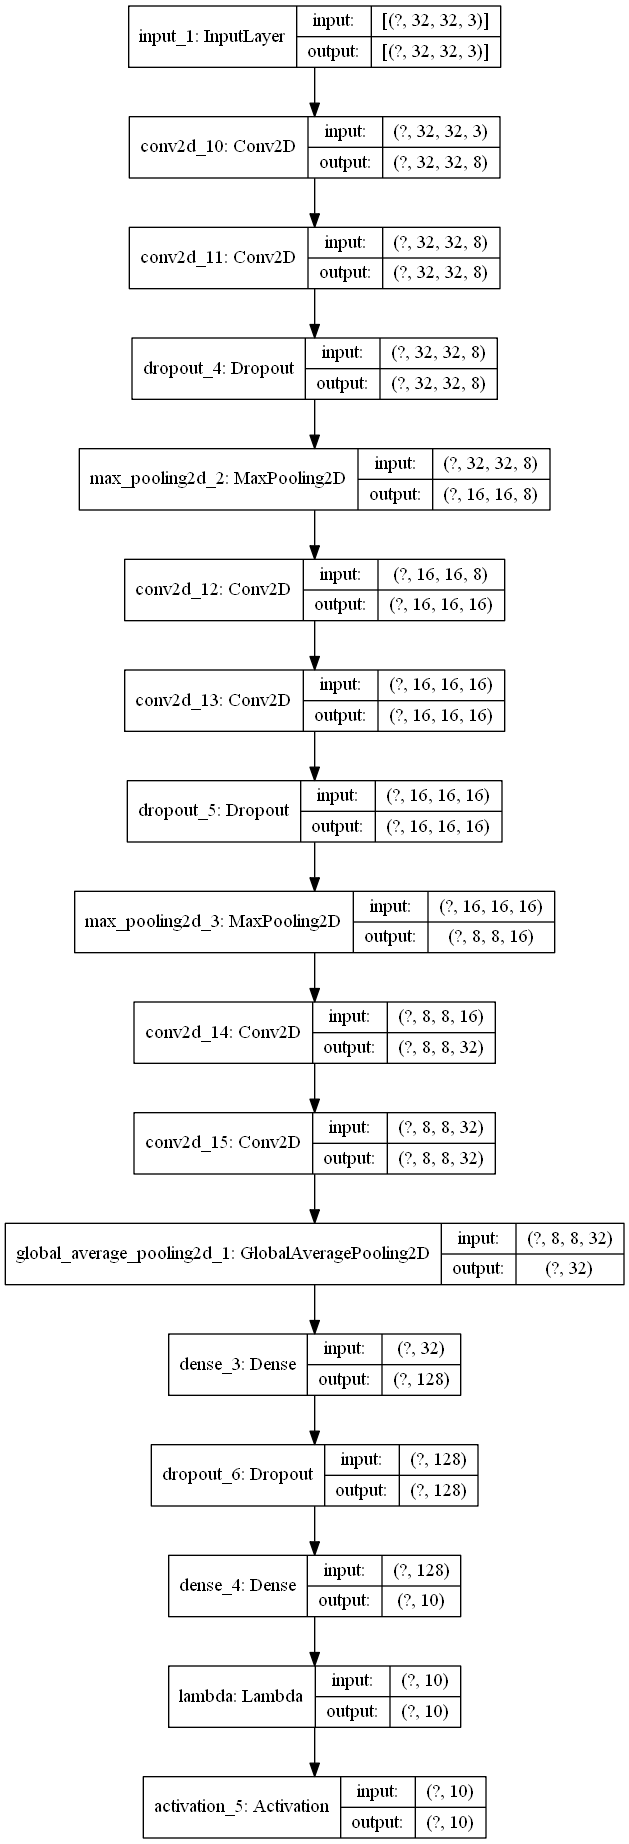
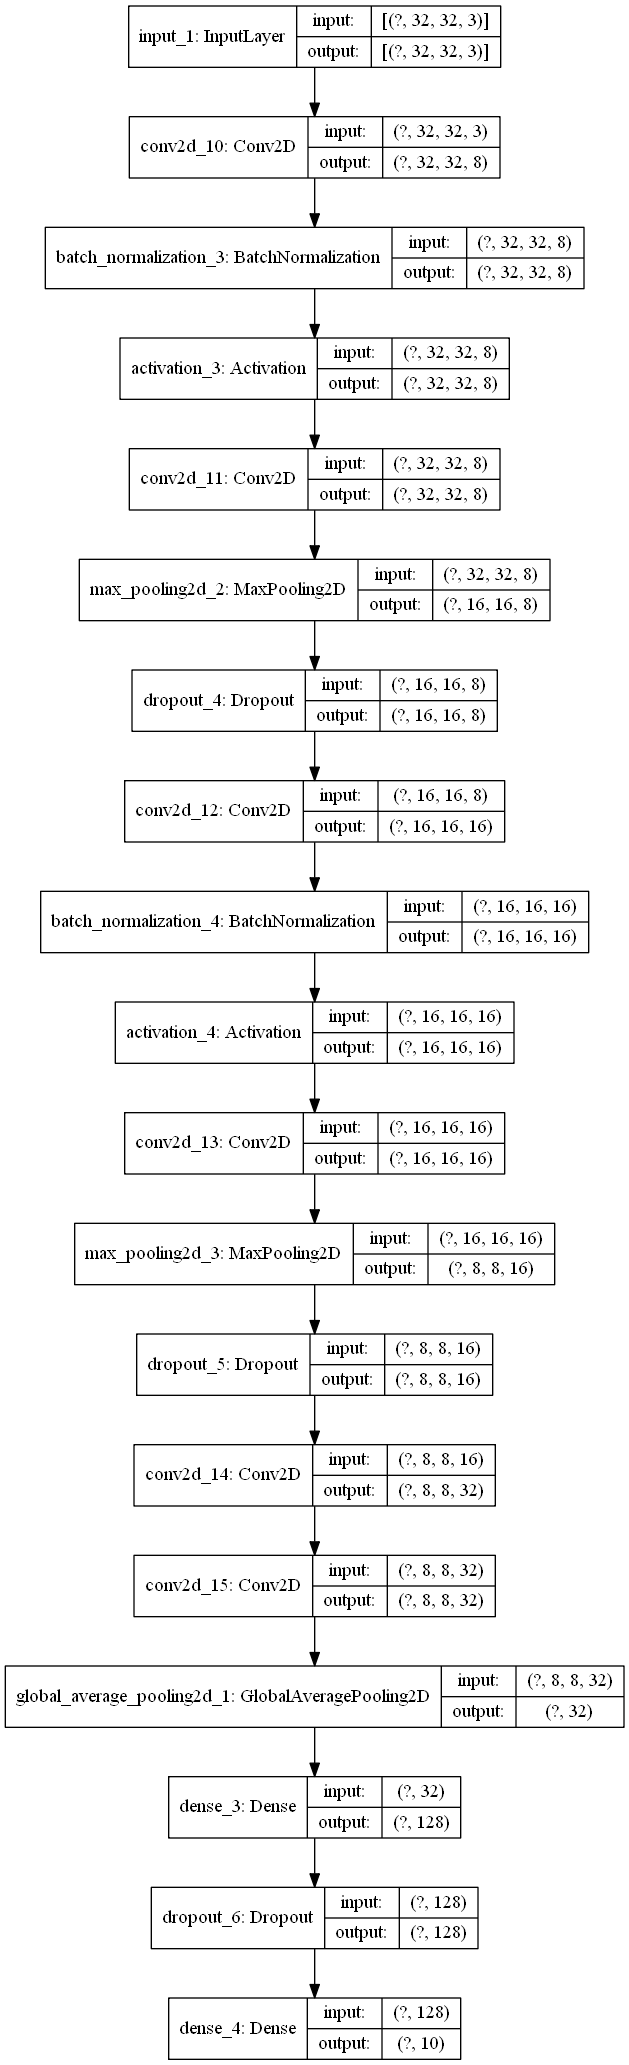
Update Files

diff --git a/KDModel.py b/KDModel.py
@@ -17,31 +17,33 @@ class Teacher():
             x = inputs_main
         else:
             x = concatenate([inputs_main, inputs_aux], axis=1)
-        x = Conv2D(32, (1, 1), padding='same', activation='relu')(x)
-        x = Conv2D(32, (3, 3), padding='same')(x)
+
+        x = Conv2D(32, (1, 1))(x)
         x = Activation('relu')(BatchNormalization()(x))
-        x = Conv2D(32, (5, 5), padding='same', activation='relu')(x)
+        x = Conv2D(32, (3, 3))(x)
+        x = Activation('relu')(BatchNormalization()(x))
+        x = Conv2D(32, (5, 5))(x)
+        x = Activation('relu')(BatchNormalization()(x))
+        x = Dropout(0.5)(x)
         x = MaxPooling2D(pool_size=(2, 2))(x)
-        x = Dropout(0.5)(x)
 
-        x = Conv2D(64, (1, 1), padding='same', activation='relu')(x)
-        x = Conv2D(64, (3, 3), padding='same')(x)
+        x = Conv2D(64, (1, 1))(x)
         x = Activation('relu')(BatchNormalization()(x))
-        x = Conv2D(64, (5, 5), padding='same', activation='relu')(x)
-        x = MaxPooling2D(pool_size=(2, 2))(x)
-        x = Dropout(0.5)(x)
-
-        x = Conv2D(128, (1, 1), padding='same', activation='relu')(x)
-        x = Conv2D(128, (3, 3), padding='same')(x)
+        x = Conv2D(64, (3, 3))(x)
         x = Activation('relu')(BatchNormalization()(x))
-        x = Conv2D(128, (3, 3), padding='same', activation='relu')(x)
-        x = Conv2D(128, (5, 5), padding='same', activation='relu')(x)
-        x = GlobalAveragePooling2D()(x)
+        x = Conv2D(64, (5, 5))(x)
+        x = Activation('relu')(BatchNormalization()(x))
+        x = Dropout(0.5)(x)
 
-        x = Dense(1024, activation='relu')(x)
+        x = Conv2D(128, (1, 1))(x)
+        x = Activation('relu')(BatchNormalization()(x))
+        x = Conv2D(128, (3, 3))(x)
+        x = Activation('relu')(BatchNormalization()(x))
+        x = Conv2D(128, (5, 5))(x)
+        x = Activation('relu')(BatchNormalization()(x))
         x = Dropout(0.5)(x)
-        x = Dense(1024, activation='relu')(x)
-        x = Dropout(0.5)(x)
+
+        x = Flatten()(x)
         logits = Dense(self.num_classes)(x)
 
         if inputs_aux == None:
@@ -60,24 +62,20 @@ class Students():
         self.temperature = temperature
 
     def createModel(self, inputs):
-        x = Conv2D(8, (1, 1), padding='same')(inputs)
+        x = Conv2D(8, (1, 1))(inputs)
         x = Activation('relu')(BatchNormalization()(x))
-        x = Conv2D(8, (3, 3), padding='same', activation='relu')(x)
-        x = MaxPooling2D(pool_size=(2, 2))(x)
-        x = Dropout(0.5)(x)
-
-        x = Conv2D(16, (1, 1), padding='same')(x)
+        x = Conv2D(8, (3, 3))(x)
         x = Activation('relu')(BatchNormalization()(x))
-        x = Conv2D(16, (3, 3), padding='same', activation='relu')(x)
+        x = Dropout(0.5)(x)
         x = MaxPooling2D(pool_size=(2, 2))(x)
+
+        x = Conv2D(16, (1, 1))(x)
+        x = Activation('relu')(BatchNormalization()(x))
+        x = Conv2D(16, (3, 3))(x)
+        x = Activation('relu')(BatchNormalization()(x))
         x = Dropout(0.5)(x)
 
-        x = Conv2D(32, (1, 1), padding='same', activation='relu')(x)
-        x = Conv2D(32, (3, 3), padding='same', activation='relu')(x)
-        x = GlobalAveragePooling2D()(x)
-
-        x = Dense(128, activation='relu')(x)
-        x = Dropout(0.5)(x)
+        x = Flatten()(x)
         logits = Dense(self.num_classes)(x)
 
         model = Model(inputs, logits, name='StudentModel')
@@ -101,7 +99,7 @@ class KnowledgeDistillation():
         ys_soft = tf.nn.softmax(self.student_model(x) / self.temperature)
         ys_hard = tf.nn.softmax(self.student_model(x))
         loss_value = (1 - self.alpha) * loss_object(y_true, ys_hard) + \
-                     self.alpha * (self.temperature ** 2) * loss_object(yt_soft, ys_soft)
+                     self.alpha * loss_object(yt_soft, ys_soft)
         return loss_value
 
     @tf.function

diff --git a/KD/TrainingCIFAR10.py b/KD/TrainingCIFAR10.py
@@ -15,8 +15,8 @@ import KDModel
 
 # 定数宣言
 NUM_CLASSES = 10        # 分類するクラス数
-EPOCHS_T = 100            # Teacherモデルの学習回数
-EPOCHS_S = 500           # Studentモデルの学習回数
+EPOCHS_T = 200            # Teacherモデルの学習回数
+EPOCHS_S = 1000           # Studentモデルの学習回数
 BATCH_SIZE = 512        # バッチサイズ
 T = 5                   # 温度付きソフトマックスの温度
 ALPHA = 0.5             # KD用のLossにおけるSoft Lossの割合
@@ -81,6 +81,7 @@ optimizer = Adam(learning_rate=LR_T)      # 最適化アルゴリズム
 training = KDModel.NormalTraining(teacher_model)
 teacher_model.summary()
 plot_model(teacher_model, show_shapes=True, to_file='teacher_model.png')
+history_teacher = LossAccHistory()
 for epoch in range(1, EPOCHS_T + 1):
     epoch_loss_avg = Mean()
     epoch_loss_avg_val = Mean()
@@ -102,6 +103,11 @@ for epoch in range(1, EPOCHS_T + 1):
     print('Epoch {}/{}: Loss: {:.3f}, Accuracy: {:.3%}, Validation Loss: {:.3f}, Validation Accuracy: {:.3%}'.format(
         epoch, EPOCHS_T, epoch_loss_avg.result(), epoch_accuracy.result(),
         epoch_loss_avg_val.result(), epoch_accuracy_val.result()))
+    # LossとAccuracyの記録(後でグラフにプロットするため)
+    history_teacher.losses.append(epoch_loss_avg.result())
+    history_teacher.accuracy.append(epoch_accuracy.result() * 100)
+    history_teacher.losses_val.append(epoch_loss_avg_val.result())
+    history_teacher.accuracy_val.append(epoch_accuracy_val.result() * 100)
 
 
 # Studentモデルの定義
@@ -177,6 +183,25 @@ print('Test - Loss: {:.3f}, Accuracy: {:.3%}, Precision: {:.3f}, Recall: {:.3f},
 # LossとAccuracyをグラフにプロット
 plt.figure()
 plt.subplot(1, 2, 1)
+plt.plot(history_teacher.accuracy)
+plt.plot(history_teacher.accuracy_val)
+plt.title('Teacher Model Accuracy')
+plt.ylabel('Accuracy [%]')
+plt.xlabel('Epoch')
+plt.ylim(0.0, 101.0)
+plt.legend(['Train', 'Validation'])
+
+plt.subplot(1, 2, 2)
+plt.plot(history_teacher.losses)
+plt.plot(history_teacher.losses_val)
+plt.title('Teacher Model Loss')
+plt.ylabel('Loss')
+plt.xlabel('Epoch')
+plt.legend(['Train', 'Validation'])
+plt.tight_layout()
+
+plt.figure()
+plt.subplot(1, 2, 1)
 plt.plot(history_student.accuracy)
 plt.plot(history_student.accuracy_val)
 plt.title('Student Model Accuracy')
@@ -193,6 +218,7 @@ plt.ylabel('Loss')
 plt.xlabel('Epoch')
 plt.legend(['Train', 'Validation'])
 plt.tight_layout()
+
 plt.show()
 
 
